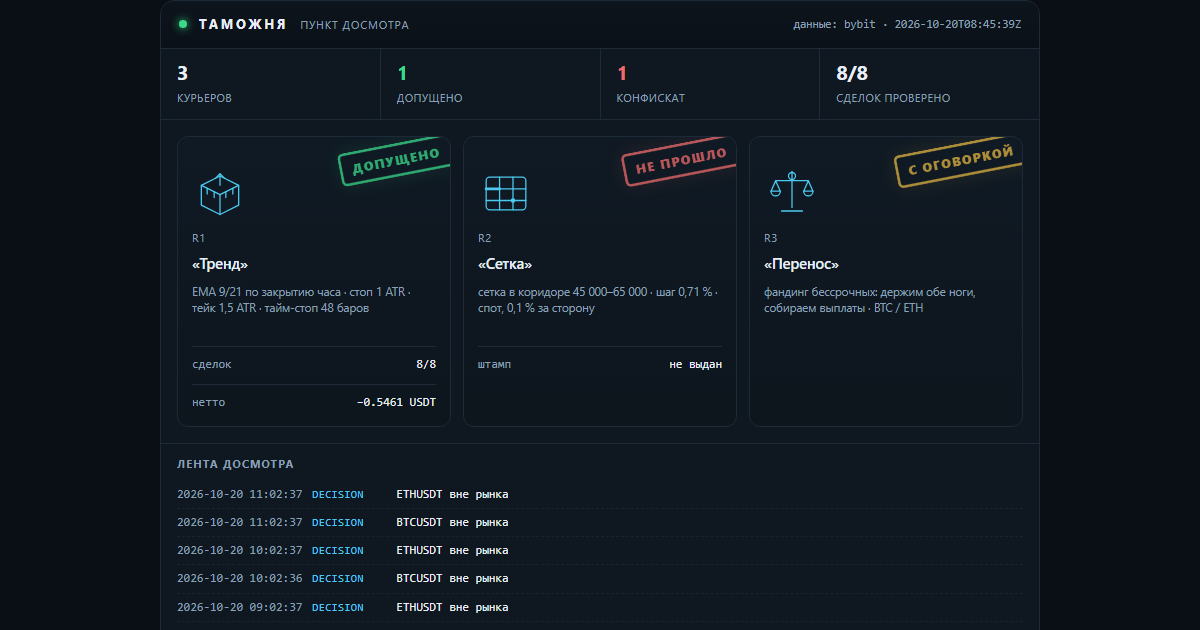
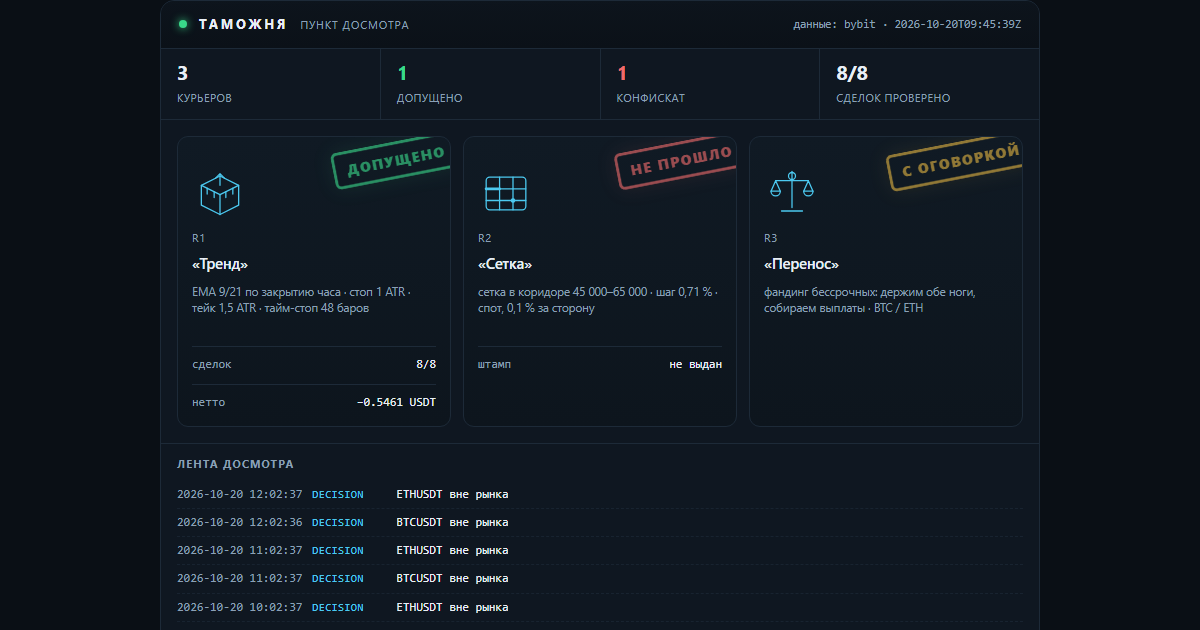
lab: таможня — свежие числа досмотра

Changed region(s): [[0.74, 0.2111, 0.8633, 0.3016], [0.4933, 0.2111, 0.6167, 0.3016], [0.2775, 0.2111, 0.37, 0.3016]]

diff --git a/docs/customs.html b/docs/customs.html
@@ -16,7 +16,7 @@
   <h1><a href="index.html">Gramwright Lab</a></h1>
   <p>Журнал проверки торговых гипотез: что проверяли, что вышло по факту, сколько съели издержки. Числа берутся из журнала стенда. Не инвестиционная рекомендация.</p>
 </header>
-<h1>Таможня</h1><p class="intro">Пункт досмотра заявленных результатов. Стратегии приезжают с грузом обещаний, и каждая проходит проверку по публичным данным биржи: цены существуют, комиссии по тарифу, нетто сходится. Что прошло — получает штамп. Что не прошло — в конфискат, с причиной. Штамп означает «записи подлинные», а не «стратегия прибыльна».</p><p><img src="img/customs.png" alt="Терминал досмотра: три курьера, штампы, лента событий" style="width:100%;height:auto;border:1px solid var(--line);border-radius:10px"></p><p class="c-note">Сверху — тот же терминал, что собирается из журналов: счётчики, эмблемы курьеров, штампы и лента последних событий. Ниже — то же самое текстом, чтобы читалось с телефона и индексировалось поиском.</p><article><h2>R1 «Тренд» <span class="verdict">— <span class="c-ok">допущено</span></span></h2><p><strong>Правило:</strong> EMA 9/21 по закрытию часа · стоп 1 ATR · тейк 1,5 ATR · тайм-стоп 48 баров</p><p><strong>Декларация:</strong> Заявлено до прогона: держать 30 сделок, лимит нотионала 10 % от счёта, стоп дня −1 %. Прибыль не заявлялась — это важно: курьер не обещал доход.</p><p><strong>Проверено по публичным свечам, без ключей:</strong> 8 из 8 сделок. Сумма нетто −0.5461 USDT.</p><ul class="c-chk"><li class="y">BTCUSDT: нетто −0.8746 USDT · комиссии 0.0901 · проверено · с поправкой</li><li class="y">BTCUSDT: нетто −0.5441 USDT · комиссии 0.0896 · проверено</li><li class="y">ETHUSDT: нетто −0.2253 USDT · комиссии 0.0266 · проверено</li><li class="y">ETHUSDT: нетто −0.1513 USDT · комиссии 0.0265 · проверено</li><li class="y">ETHUSDT: нетто +0.1984 USDT · комиссии 0.0262 · проверено</li><li class="y">ETHUSDT: нетто +0.1617 USDT · комиссии 0.0260 · проверено</li><li class="y">ETHUSDT: нетто +0.2645 USDT · комиссии 0.0263 · проверено</li><li class="y">BTCUSDT: нетто +0.6246 USDT · комиссии 0.0897 · проверено</li></ul><p class="tags">журнал sha256 bafeecf218f83547… · проверяльщик verify-1</p><p class="c-note">Штамп означает: записи подлинные, а не что стратегия прибыльна. Курьер в минусе, и минус тоже стоит на штампе — иначе это была бы не проверка, а реклама.</p><p class="tags">источник: verify-report.json</p></article><article><h2>R2 «Сетка» <span class="verdict">— <span class="c-bad">не прошло</span></span></h2><p><strong>Правило:</strong> сетка в коридоре 45 000–65 000 · шаг 0,71 % · спот, 0,1 % за сторону</p><p><strong>Декларация:</strong> Заявлено: «44 % урожая уходит бирже в виде комиссий». Кроме того — перевес над простым владением монетой.</p><p><strong>Что сошлось:</strong></p><ul class="c-chk"><li class="y">сами числа пересчитаны и воспроизводятся: коридор 45–65k был активен 23 % всей истории и 28 % последних двух лет</li></ul><p><strong>Что не сошлось:</strong></p><ul class="c-chk"><li class="n">44 % не подтвердилось: при шаге 0,71 % и тарифе 0,1 % комиссия съедает 28,3 % шага. Чтобы получить 44 %, нужен шаг 0,45 % — это около 80 уровней, а не 50</li><li class="n">от урожая доля комиссий 85,5 % за всю историю и 49,6 % за последние два года — тоже не 44 %</li><li class="n">перевес над владением посчитан на тарифе 0,055 %: при нём +1,32 п. п., на розничном 0,1 % — −0,72 п. п. То есть перевес исчезает</li><li class="n">семилетний тест стартовал в сентябре 2019 при биткоине около 10 000 — ниже коридора. Он говорит, что фиксированный коридор не подходит для периода, а не что сетка отстаёт</li></ul><p class="tags">источник: lab_grid.py, пересчёт 17.10.2026</p></article><article><h2>R3 «Перенос» <span class="verdict">— <span class="c-warn">с оговоркой</span></span></h2><p><strong>Правило:</strong> фандинг бессрочных: держим обе ноги, собираем выплаты · BTC / ETH</p><p><strong>Декларация:</strong> Заявлено: около 11,9 % в год от выплат фандинга при просадке выплатной кривой меньше 2 %.</p><p><strong>Что сошлось:</strong></p><ul class="c-chk"><li class="y">выплаты взяты из публичной истории биржи, ключей не нужно: BTC — 7 190 выплат с 25.03.2020, ETH — 6 561 с 21.10.2020</li><li class="y">сумма сходится: +83,4 % и +83,2 % за 6,6 и 6,0 года — те самые ~11,9 % в год</li><li class="y">худшая просадка выплатной кривой: −1,65 % и −1,97 %</li></ul><p><strong>Что не сошлось:</strong></p><ul class="c-chk"><li class="n">оговорка 1: премию сжали — 2021 год дал +38,3 %, 2026 — +1,96 %. Прошлое не повторяется</li><li class="n">оговорка 2: вход-выход стоит около 0,31 %, капитала нужно 1,2 от нотионала, текущий базис −0,082 % против входа</li><li class="n">оговорка 3: риск площадки. История FTX в этой же таблице выглядела так же прилично</li></ul><p class="tags">источник: публичная история фандинга Bybit, замер 17.10.2026</p></article><div class="c-conf"><h3>Конфискат</h3><p><strong>«Сетка»: заявленные 44 % комиссий не подтвердились.</strong> Досмотр показал 28,3 % от шага и 85,5 % от урожая — цифра хуже заявленной по форме, но лучше по смыслу: сетку убивает не размер шага, а то, что урожай почти весь уходит в комиссии. Это и вышло в выпуск — с поправкой, а не с красивой цифрой.</p></div><p class="c-note">Пломба: <code>2026-10-20T08:45:39Z</code> · нотариус FreeTSA · Oct 20 08:45:39 2026 GMT · подпись подтверждена. Манифест скрепляет отчёт проверки, журнал сделок и декларации курьеров: подменишь любую цифру — пломба перестанет сходиться.</p><p class="c-note">Досмотр идёт по публичным минутным свечам и публичной истории фандинга — ключей у проверяющего нет, и он может повторить проверку сам.</p><p class="c-note">Контент образовательный, не является инвестиционной рекомендацией. Торговля связана с риском потери капитала.</p>
+<h1>Таможня</h1><p class="intro">Пункт досмотра заявленных результатов. Стратегии приезжают с грузом обещаний, и каждая проходит проверку по публичным данным биржи: цены существуют, комиссии по тарифу, нетто сходится. Что прошло — получает штамп. Что не прошло — в конфискат, с причиной. Штамп означает «записи подлинные», а не «стратегия прибыльна».</p><p><img src="img/customs.png" alt="Терминал досмотра: три курьера, штампы, лента событий" style="width:100%;height:auto;border:1px solid var(--line);border-radius:10px"></p><p class="c-note">Сверху — тот же терминал, что собирается из журналов: счётчики, эмблемы курьеров, штампы и лента последних событий. Ниже — то же самое текстом, чтобы читалось с телефона и индексировалось поиском.</p><article><h2>R1 «Тренд» <span class="verdict">— <span class="c-ok">допущено</span></span></h2><p><strong>Правило:</strong> EMA 9/21 по закрытию часа · стоп 1 ATR · тейк 1,5 ATR · тайм-стоп 48 баров</p><p><strong>Декларация:</strong> Заявлено до прогона: держать 30 сделок, лимит нотионала 10 % от счёта, стоп дня −1 %. Прибыль не заявлялась — это важно: курьер не обещал доход.</p><p><strong>Проверено по публичным свечам, без ключей:</strong> 8 из 8 сделок. Сумма нетто −0.5461 USDT.</p><ul class="c-chk"><li class="y">BTCUSDT: нетто −0.8746 USDT · комиссии 0.0901 · проверено · с поправкой</li><li class="y">BTCUSDT: нетто −0.5441 USDT · комиссии 0.0896 · проверено</li><li class="y">ETHUSDT: нетто −0.2253 USDT · комиссии 0.0266 · проверено</li><li class="y">ETHUSDT: нетто −0.1513 USDT · комиссии 0.0265 · проверено</li><li class="y">ETHUSDT: нетто +0.1984 USDT · комиссии 0.0262 · проверено</li><li class="y">ETHUSDT: нетто +0.1617 USDT · комиссии 0.0260 · проверено</li><li class="y">ETHUSDT: нетто +0.2645 USDT · комиссии 0.0263 · проверено</li><li class="y">BTCUSDT: нетто +0.6246 USDT · комиссии 0.0897 · проверено</li></ul><p class="tags">журнал sha256 f258fdd7183e83cd… · проверяльщик verify-1</p><p class="c-note">Штамп означает: записи подлинные, а не что стратегия прибыльна. Курьер в минусе, и минус тоже стоит на штампе — иначе это была бы не проверка, а реклама.</p><p class="tags">источник: verify-report.json</p></article><article><h2>R2 «Сетка» <span class="verdict">— <span class="c-bad">не прошло</span></span></h2><p><strong>Правило:</strong> сетка в коридоре 45 000–65 000 · шаг 0,71 % · спот, 0,1 % за сторону</p><p><strong>Декларация:</strong> Заявлено: «44 % урожая уходит бирже в виде комиссий». Кроме того — перевес над простым владением монетой.</p><p><strong>Что сошлось:</strong></p><ul class="c-chk"><li class="y">сами числа пересчитаны и воспроизводятся: коридор 45–65k был активен 23 % всей истории и 28 % последних двух лет</li></ul><p><strong>Что не сошлось:</strong></p><ul class="c-chk"><li class="n">44 % не подтвердилось: при шаге 0,71 % и тарифе 0,1 % комиссия съедает 28,3 % шага. Чтобы получить 44 %, нужен шаг 0,45 % — это около 80 уровней, а не 50</li><li class="n">от урожая доля комиссий 85,5 % за всю историю и 49,6 % за последние два года — тоже не 44 %</li><li class="n">перевес над владением посчитан на тарифе 0,055 %: при нём +1,32 п. п., на розничном 0,1 % — −0,72 п. п. То есть перевес исчезает</li><li class="n">семилетний тест стартовал в сентябре 2019 при биткоине около 10 000 — ниже коридора. Он говорит, что фиксированный коридор не подходит для периода, а не что сетка отстаёт</li></ul><p class="tags">источник: lab_grid.py, пересчёт 17.10.2026</p></article><article><h2>R3 «Перенос» <span class="verdict">— <span class="c-warn">с оговоркой</span></span></h2><p><strong>Правило:</strong> фандинг бессрочных: держим обе ноги, собираем выплаты · BTC / ETH</p><p><strong>Декларация:</strong> Заявлено: около 11,9 % в год от выплат фандинга при просадке выплатной кривой меньше 2 %.</p><p><strong>Что сошлось:</strong></p><ul class="c-chk"><li class="y">выплаты взяты из публичной истории биржи, ключей не нужно: BTC — 7 190 выплат с 25.03.2020, ETH — 6 561 с 21.10.2020</li><li class="y">сумма сходится: +83,4 % и +83,2 % за 6,6 и 6,0 года — те самые ~11,9 % в год</li><li class="y">худшая просадка выплатной кривой: −1,65 % и −1,97 %</li></ul><p><strong>Что не сошлось:</strong></p><ul class="c-chk"><li class="n">оговорка 1: премию сжали — 2021 год дал +38,3 %, 2026 — +1,96 %. Прошлое не повторяется</li><li class="n">оговорка 2: вход-выход стоит около 0,31 %, капитала нужно 1,2 от нотионала, текущий базис −0,082 % против входа</li><li class="n">оговорка 3: риск площадки. История FTX в этой же таблице выглядела так же прилично</li></ul><p class="tags">источник: публичная история фандинга Bybit, замер 17.10.2026</p></article><div class="c-conf"><h3>Конфискат</h3><p><strong>«Сетка»: заявленные 44 % комиссий не подтвердились.</strong> Досмотр показал 28,3 % от шага и 85,5 % от урожая — цифра хуже заявленной по форме, но лучше по смыслу: сетку убивает не размер шага, а то, что урожай почти весь уходит в комиссии. Это и вышло в выпуск — с поправкой, а не с красивой цифрой.</p></div><p class="c-note">Пломба: <code>2026-10-20T09:45:39Z</code> · нотариус FreeTSA · Oct 20 09:45:39 2026 GMT · подпись подтверждена. Манифест скрепляет отчёт проверки, журнал сделок и декларации курьеров: подменишь любую цифру — пломба перестанет сходиться.</p><p class="c-note">Досмотр идёт по публичным минутным свечам и публичной истории фандинга — ключей у проверяющего нет, и он может повторить проверку сам.</p><p class="c-note">Контент образовательный, не является инвестиционной рекомендацией. Торговля связана с риском потери капитала.</p>
 <footer class="site">
   Код стенда и аудитора: <a href="https://github.com/XSlaidx/truth-engine">XSlaidx/truth-engine</a>
   &middot; <a href="graveyard.html">кладбище правил</a>
